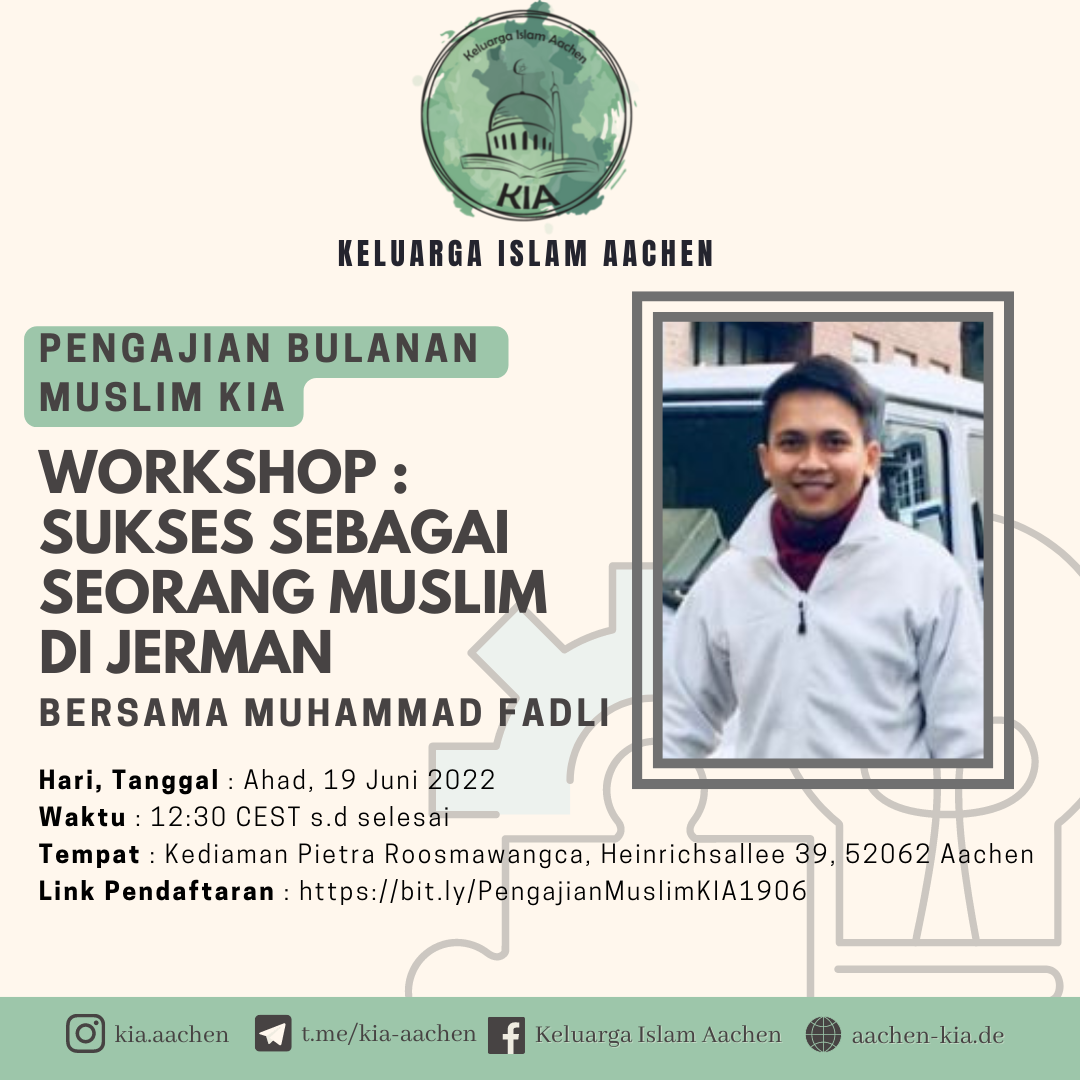
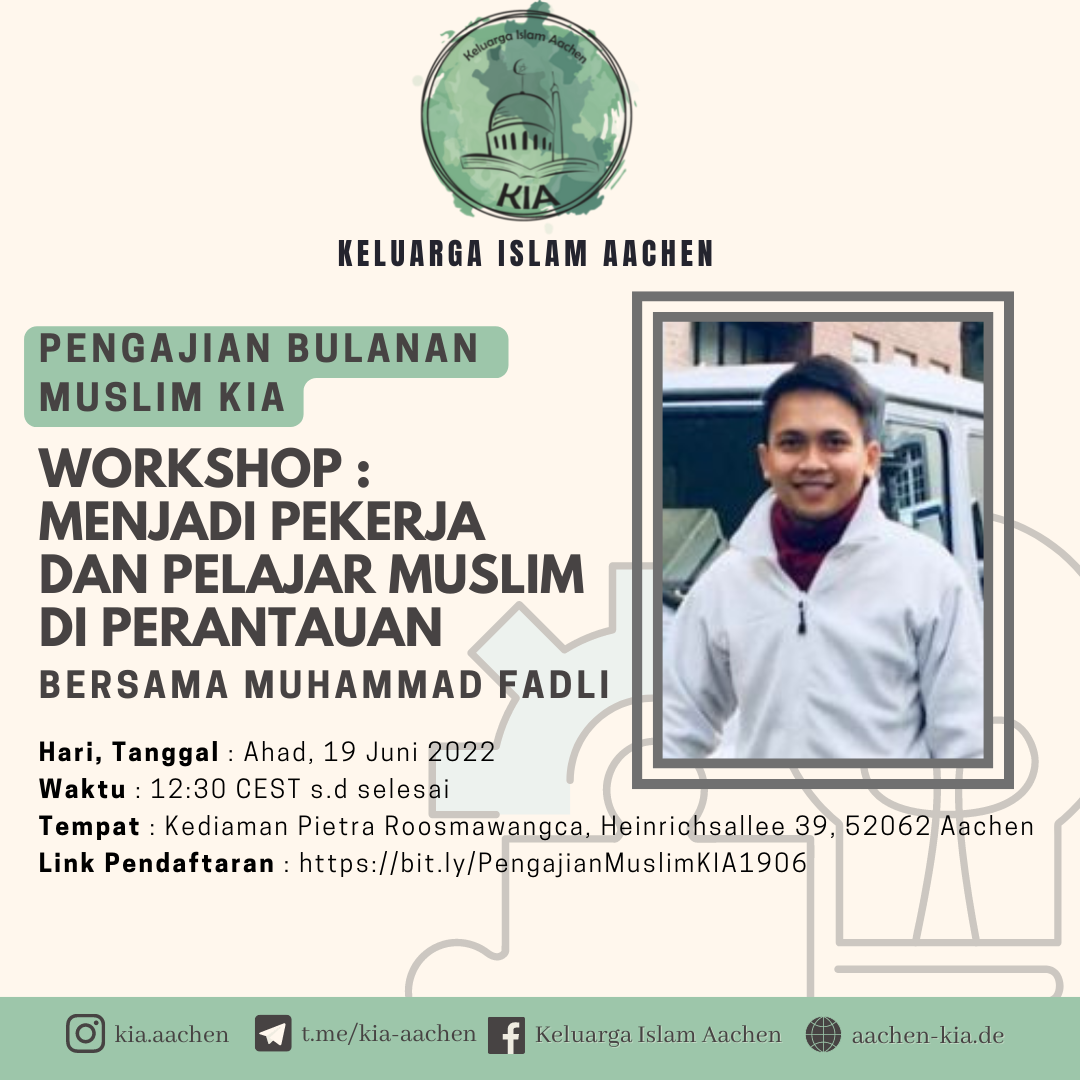
Pengajian Bulanan Muslim 19.06.2022

Changed region(s): [[0.0306, 0.3972, 0.9472, 0.8556]]

diff --git a/2022/06/14/pengbul_muslim.html b/2022/06/14/pengbul_muslim.html
@@ -221,7 +221,7 @@ insyaaAllah Pengajian Bulanan Muslim KIA akan dilaksanakan pada:</p>
 
 <p>Link Pendaftaran : <a href="https://bit.ly/PengajianMuslimKIA1906">https://bit.ly/PengajianMuslimKIA1906</a></p>
 
-<p>Hadir sebagai narasumber <strong>Muhammad Fadli</strong>, dengan tema <strong>Sukses sebagai seorang Muslim di Jerman</strong>.</p>
+<p>Hadir sebagai narasumber <strong>Muhammad Fadli</strong>, dengan tema <strong>Menjadi Pekerja dan Pelajar Muslim di Perantauan</strong>.</p>
 
 <p>Semoga Allah memudahkan langkah kita untuk menuntut ilmu agama. Aamiin Yaa Rabbal ‘Alamin.</p>
 
